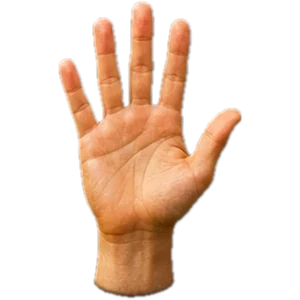
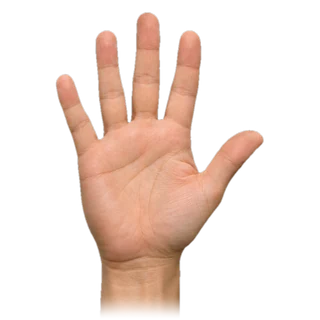
land: GPT photoreal rock-paper-scissors hands (same hand, same scale, wrist fade)

Changed region(s): [[0.15, 0.0, 0.84, 1.0]]

diff --git a/land/app.js b/land/app.js
@@ -159,7 +159,7 @@ function diceScene(dice){const show=dice||[3,5],die=(n,i,cls)=>'<img class="'+cl
 // 가위바위보: 두 주먹이 마주 보고 "가위·바위·보!" 박자에 맞춰 위아래로 흔들다 '보!'에서 앞으로 내밀며 모양을 바꾼다.
 const RPS_CHANT=['가위','바위','보!'];
 function rpsScene(r){const o=r?classifyOutcome(r,'rps'):'idle',fate=me=>o==='draw'||o==='idle'?'':(o==='win')===me?' won':' lost';
-  const hand=(me,shape)=>'<div class="rps-hand '+(me?'mine':'bot')+fate(me)+'"><span class="rps-pump"><img class="fist" src="'+art('arcade-hand-rock.png')+'" alt=""><img class="shape" src="'+art('arcade-hand-'+shape+'.png')+'" alt=""></span><small>'+(me?'나':'쪼꼬미')+(r?' · '+h(RPS[shape]):'')+'</small></div>';
+  const hand=(me,shape)=>'<div class="rps-hand '+(me?'mine':'bot')+fate(me)+'"><span class="rps-pump"><img class="fist" src="'+art('arcade-hand-rock.png')+'?v=2" alt=""><img class="shape" src="'+art('arcade-hand-'+shape+'.png')+'?v=2" alt=""></span><small>'+(me?'나':'쪼꼬미')+(r?' · '+h(RPS[shape]):'')+'</small></div>';
   return '<div class="rps-arena'+(r?' played':'')+'" role="img" aria-label="'+(r?'나 '+h(RPS[r.choice])+', 쪼꼬미 '+h(RPS[r.opponent]):'가위바위보')+'">'+hand(true,r?.choice||'rock')+'<div class="rps-chant" aria-hidden="true">'+(r?RPS_CHANT.map((w,i)=>'<b style="--i:'+i+'">'+w+'</b>').join(''):'<b class="still">가위바위보</b>')+'</div>'+hand(false,r?.opponent||'rock')+'</div>';}
 // 블랙잭 테이블: GPT 실사 테이블 위에 카드가 슈에서 날아와 뒤집힌다. 순서는 실제처럼 나·딜러·나·딜러(히든), 결과가 나면 히든을 뒤집고 딜러 추가 카드.
 // 단위는 테이블 폭 기준 cqw. 각 동작 k는 k*BJ_GAP에 시작해 BJ_DUR 뒤에 끝난다(casino-fx SETTLE.blackjack 과 같은 값).

diff --git a/land/index.html b/land/index.html
@@ -27,6 +27,6 @@
 <dialog id="venueDialog" class="dialog venue-dialog"><div class="dialog-heading"><div><span class="eyebrow" id="venueEyebrow">WELCOME</span><h2 id="venueTitle"></h2></div><button class="close" data-close aria-label="광장으로 돌아가기">×</button></div><div id="venueContent"></div></dialog>
 <dialog id="guideDialog" class="dialog"><div class="dialog-heading"><h2>마을에서 놀기</h2><button class="close" data-close aria-label="닫기">×</button></div><div class="guide-list"><p><kbd>WASD</kbd> 또는 <kbd>↑↓←→</kbd>로 걷기. 대각선도 같은 속도예요.</p><p>건물 입구 가까이에서 <kbd>E</kbd> 또는 입장 버튼을 눌러요. 점프는 없어요.</p><p><kbd>Enter</kbd>로 채팅, <kbd>Esc</kbd>로 이동에 돌아와요. 채팅을 쓰는 동안은 걷지 않아요.</p><p>모바일에서는 화면의 방향키를 길게 눌러 걸어요.</p><p>로그인하면 주민 저장·게임·공동 광장·채팅을 이용할 수 있어요. 기존 검 계정으로 들어오면 진행을 이어해요.</p><p>공개 광장과 Discord 모임은 다른 대화 공간이에요. 프로필에서 Discord를 연결하고, 접근 가능한 음성방을 선택해주세요.</p><p>공개 광장 채팅은 최근 200개까지 보관해요. 민감한 개인정보는 올리지 마세요.</p></div></dialog>
 <div id="toast" class="toast" role="status" hidden></div>
-<script type="module" src="app.js?v=20"></script>
+<script type="module" src="app.js?v=21"></script>
 <svg width="0" height="0" style="position:absolute" aria-hidden="true" focusable="false"><filter id="reel-blur" x="0" y="-15%" width="100%" height="130%"><feGaussianBlur stdDeviation="0 6"/></filter></svg>
 </body></html>
